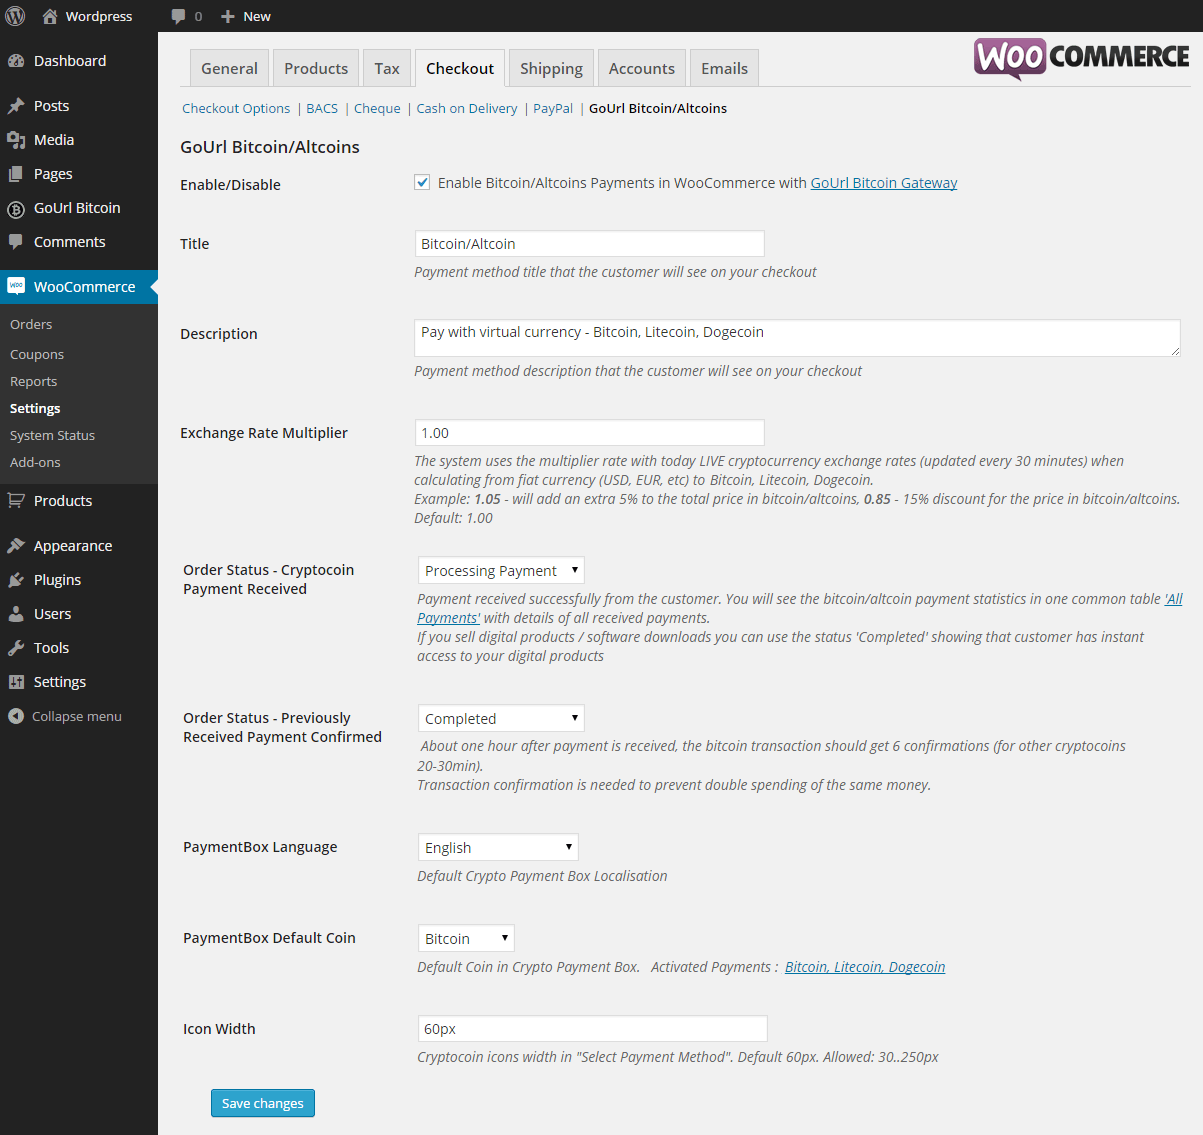
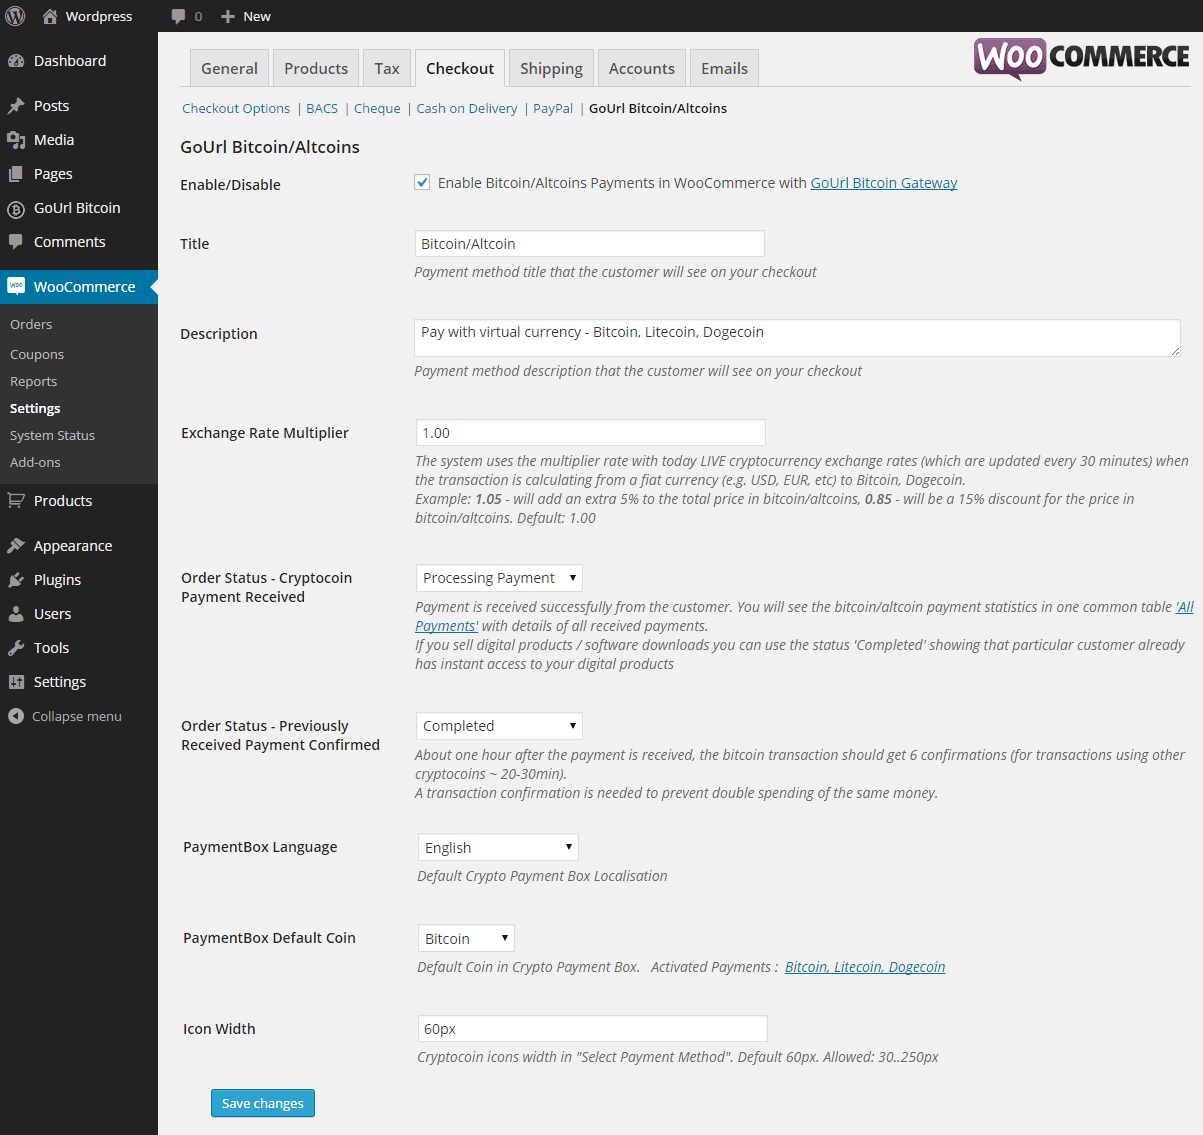
Version 1.0.1

diff --git a/class-wc-gateway-gourl.php b/class-wc-gateway-gourl.php
@@ -3,7 +3,7 @@
 Plugin Name: 		GoUrl WooCommerce - Bitcoin Altcoin Payment Gateway Addon
 Plugin URI: 		https://gourl.io/bitcoin-payments-woocommerce.html
 Description: 		Provides a <a href="https://gourl.io">GoUrl.io</a> Payment Gateway for WooCommerce 2.1+. Support product prices in Bitcoin/Altcoins directly and sends the amount straight to your business Bitcoin/Altcoin wallet. Convert your USD/EUR/etc prices to cryptocoins using Google/Cryptsy Exchange Rates. Direct Integration on your website, no external payment pages opens (as other payment gateways offer). Accept Bitcoin, Litecoin, Dogecoin, Speedcoin, Darkcoin, Vertcoin, Reddcoin, Feathercoin, Vericoin, Potcoin payments online. You will see the bitcoin/altcoin payment statistics in one common table on your website. No Chargebacks, Global, Secure. All in automatic mode.
-Version: 			1.0.0
+Version: 			1.0.1
 Author: 			GoUrl.io
 Author URI: 		https://gourl.io
 License: 			GPLv2
@@ -174,9 +174,9 @@ function gourl_wc_gateway_load()
 			$this->id                 	= 'gourlpayments';
 			$this->icon         	  	= apply_filters('woocommerce_gourlpayments_icon', plugin_dir_url( __FILE__ ).'gourlpayments.png' );
 			$this->method_title       	= __( 'GoUrl Bitcoin/Altcoins', GOURLWC );
-			$this->method_description  	= __( '<a target="_blank" href="https://gourl.io/bitcoin-payments-woocommerce.html">Plugin Homepage &#187;</a>', GOURLWC ) . "<br>";
+			$this->method_description  	= "<img style='float:left; margin-right:15px' src='".plugin_dir_url( __FILE__ )."gourlpayments.png'>";
+			$this->method_description  .= __( '<a target="_blank" href="https://gourl.io/bitcoin-payments-woocommerce.html">Plugin Homepage &#187;</a>', GOURLWC ) . "<br>";
 			$this->method_description  .= __( '<a target="_blank" href="https://github.com/cryptoapi/Bitcoin-Payments-Woocommerce">Plugin on Github - 100% Free Open Source &#187;</a>', GOURLWC ) . "<br><br>";
-			$this->method_description  .= __( 'Accept Bitcoin, Litecoin, Dogecoin, Speedcoin, Darkcoin, Vertcoin, Reddcoin, Feathercoin, Vericoin, Potcoin payments online in WooCommerce.', GOURLWC ).'<br/>';
 			$this->has_fields         	= false;
 				
 			if (class_exists('gourlclass') && defined('GOURL') && defined('GOURL_ADMIN') && is_object($gourl))
@@ -191,7 +191,6 @@ function gourl_wc_gateway_load()
 				}
 				else 
 				{
-					$this->method_description .= __( 'If you use multiple stores, please create separate <a target="_blank" href="https://gourl.io/editrecord/coin_boxes/0">GoUrl Payment Box</a> (with unique payment box public/private keys) for each of your stores/websites. Do not use the same GoUrl Payment Box with the same public/private keys on your different websites/stores.', GOURLWC );
 					$this->payments 			= $gourl->payments(); 		// Activated Payments
 					$this->coin_names			= $gourl->coin_names(); 	// All Coins
 					$this->languages			= $gourl->languages(); 		// All Languages
@@ -202,6 +201,8 @@ function gourl_wc_gateway_load()
 				$this->method_description .= '<div class="error"><p>' .sprintf(__( '<b>You need to install GoUrl Bitcoin Gateway Main Plugin also. Go to - <a href="%s">Bitcoin Gateway plugin page</a></b> &#160; &#160; &#160; &#160; Information: &#160; <a href="https://gourl.io/bitcoin-wordpress-plugin.html">Plugin Homepage</a> &#160; &#160; &#160; <a href="https://wordpress.org/plugins/gourl-bitcoin-payment-gateway-paid-downloads-membership/">WordPress.org Plugin Page</a> ', GOURLWC ), $this->mainplugin_url).'</p></div>';
 			}
 			
+			$this->method_description  .= sprintf(__( 'Accept %s payments online in WooCommerce.', GOURLWC), ($this->coin_names?ucwords(implode(", ", $this->coin_names)):"Bitcoin, Litecoin, Dogecoin, Speedcoin, Darkcoin, Vertcoin, Reddcoin, Feathercoin, Vericoin, Potcoin")).'<br/>';
+			$this->method_description .= __( 'If you use multiple stores, please create separate <a target="_blank" href="https://gourl.io/editrecord/coin_boxes/0">GoUrl Payment Box</a> (with unique payment box public/private keys) for each of your stores/websites. Do not use the same GoUrl Payment Box with the same public/private keys on your different websites/stores.', GOURLWC );
 			$this->method_description .= '<br/><br/>';
 				
 
@@ -214,7 +215,7 @@ function gourl_wc_gateway_load()
 			$this->enabled       = $this->get_option( 'enabled' );
 			$this->title        = $this->get_option( 'title' );
 			$this->description  = $this->get_option( 'description' );
-			$this->emultiplier  = $this->get_option( 'emultiplier' );
+			$this->emultiplier  = trim(str_replace("%", "", $this->get_option( 'emultiplier' )));
 			$this->ostatus  	= $this->get_option( 'ostatus' );
 			$this->ostatus2  	= $this->get_option( 'ostatus2' );
 			$this->deflang  	= $this->get_option( 'deflang' );
@@ -293,40 +294,40 @@ function gourl_wc_gateway_load()
    					'title' 		=> __('Exchange Rate Multiplier', GOURLWC ),
    					'type' 			=> 'text',
    					'default' 		=> '1.00',
-    				'description' 	=> sprintf(__('The system uses the multiplier rate with today LIVE cryptocurrency exchange rates (updated every 30 minutes) when calculating from fiat currency (USD, EUR, etc) to %s. <br />Example: <b>1.05</b> - will add an extra 5%% to the total price in bitcoin/altcoins, <b>0.85</b> - 15%% discount for the price in bitcoin/altcoins. Default: 1.00 ', GOURLWC ), $coins)
+    				'description' 	=> sprintf(__('The system uses the multiplier rate with today LIVE cryptocurrency exchange rates (which are updated every 30 minutes) when the transaction is calculating from a fiat currency (e.g. USD, EUR, etc) to %s. <br />Example: <b>1.05</b> - will add an extra 5%% to the total price in bitcoin/altcoins, <b>0.85</b> - will be a 15%% discount for the price in bitcoin/altcoins. Default: 1.00 ', GOURLWC ), $coins)
     			),
     			'advanced' 		=> array(
    					'title'       	=> __( 'Advanced options', GOURLWC ),
    					'type'        	=> 'title',
-   					'description' 	=> '',
+   					'description' 	=> ''
     			),
 	    		'ostatus' 		=> array(
    					'title' 		=> __('Order Status - Cryptocoin Payment Received', GOURLWC ),
    					'type' 			=> 'select',
    					'options' 		=> $this->statuses,
    					'default' 		=> 'processing',
-   					'description' 	=> sprintf(__("Payment received successfully from the customer. You will see the bitcoin/altcoin payment statistics in one common table <a href='%s'>'All Payments'</a> with details of all received payments.<br/>If you sell digital products / software downloads you can use the status 'Completed' showing that customer has instant access to your digital products", GOURLWC), $url2),
+	    			'description' 	=> sprintf(__("Payment is received successfully from the customer. You will see the bitcoin/altcoin payment statistics in one common table <a href='%s'>'All Payments'</a> with details of all received payments.<br/>If you sell digital products / software downloads you can use the status 'Completed' showing that particular customer already has instant access to your digital products", GOURLWC), $url2)
     			),
 	    		'ostatus2' 		=> array(
 	    			'title' 		=> __('Order Status - Previously Received Payment Confirmed', GOURLWC ),
 	    			'type' 			=> 'select',
 	    			'options' 		=> $this->statuses,
 	    			'default' 		=> 'completed',
-	    			'description' 	=> __("About one hour after payment is received, the bitcoin transaction should get 6 confirmations (for other cryptocoins ~ 20-30min).<br>Transaction confirmation is needed to prevent double spending of the same money.", GOURLWC),
+	    			'description' 	=> __("About one hour after the payment is received, the bitcoin transaction should get 6 confirmations (for transactions using other cryptocoins ~ 20-30min).<br>A transaction confirmation is needed to prevent double spending of the same money.", GOURLWC)
 	    		),
     			'deflang' 		=> array(
     				'title' 		=> __('PaymentBox Language', GOURLWC ),
     				'type' 			=> 'select',
     				'options' 		=> $this->languages,
     				'default' 		=> 'en',
-    				'description' 	=> __("Default Crypto Payment Box Localisation", GOURLWC),
+    				'description' 	=> __("Default Crypto Payment Box Localisation", GOURLWC)
     			),
     			'defcoin' 		=> array(
    					'title' 		=> __('PaymentBox Default Coin', GOURLWC ),
    					'type' 			=> 'select',
    					'options' 		=> $this->payments,
    					'default' 		=> key($this->payments),
-   					'description' 	=> sprintf(__( 'Default Coin in Crypto Payment Box. &#160; Activated Payments : <a href="%s">%s</a>', GOURLWC ), $url, $text),
+   					'description' 	=> sprintf(__( 'Default Coin in Crypto Payment Box. &#160; Activated Payments : <a href="%s">%s</a>', GOURLWC ), $url, $text)
     			),
 	    		'iconwidth'			=> array(
 					'title'       	=> __( 'Icon Width', GOURLWC ),
@@ -572,7 +573,7 @@ function gourl_wc_gateway_load()
 	 *  The function will automatically appear for each new payment usually two times :  
 	 *  a) when a new payment is received, with values: $box_status = cryptobox_newrecord, $payment_details[is_confirmed] = 0
 	 *  b) and a second time when existing payment is confirmed (6+ confirmations) with values: $box_status = cryptobox_updated, $payment_details[is_confirmed] = 1.
-	 *	
+	 *
 	 *  But sometimes if the payment notification is delayed for 20-30min, the payment/transaction will already be confirmed and the function will
 	 *  appear once with values: $box_status = cryptobox_newrecord, $payment_details[is_confirmed] = 1
 	 *  
@@ -600,4 +601,4 @@ function gourl_wc_gateway_load()
 
 
 }
-// end gourl_wc_gateway_load()    
+// end gourl_wc_gateway_load()

diff --git a/readme.md b/readme.md
@@ -2,7 +2,7 @@
 GoUrl WooCommerce - Bitcoin Altcoin Payment Gateway Addon
 -----------------------------------------------------------
 
-Version 1.0.0
+Version 1.0.1
 
 
 **Wordpress Plugin provides a Bitcoin Payment Gateway for WooCommerce 2.1+. Accept Bitcoins, Litecoin, Dogecoin, Darkcoin, Reddcoin, etc. Payments Online**
@@ -12,7 +12,7 @@ Version 1.0.0
 * Screenshots: [https://gourl.io/bitcoin-payments-woocommerce.html#screenshot](https://gourl.io/bitcoin-payments-woocommerce.html#screenshot)
 * Requires at least: Wordpress 3.5 and WooCommerce 2.1
 * Tested up to: Wordpress 4.2 and WooCommerce 2.2 
-* Stable Tag: 1.0.0
+* Stable Tag: 1.0.1
 * License: GNU Version 2 or Any Later Version
 
 
